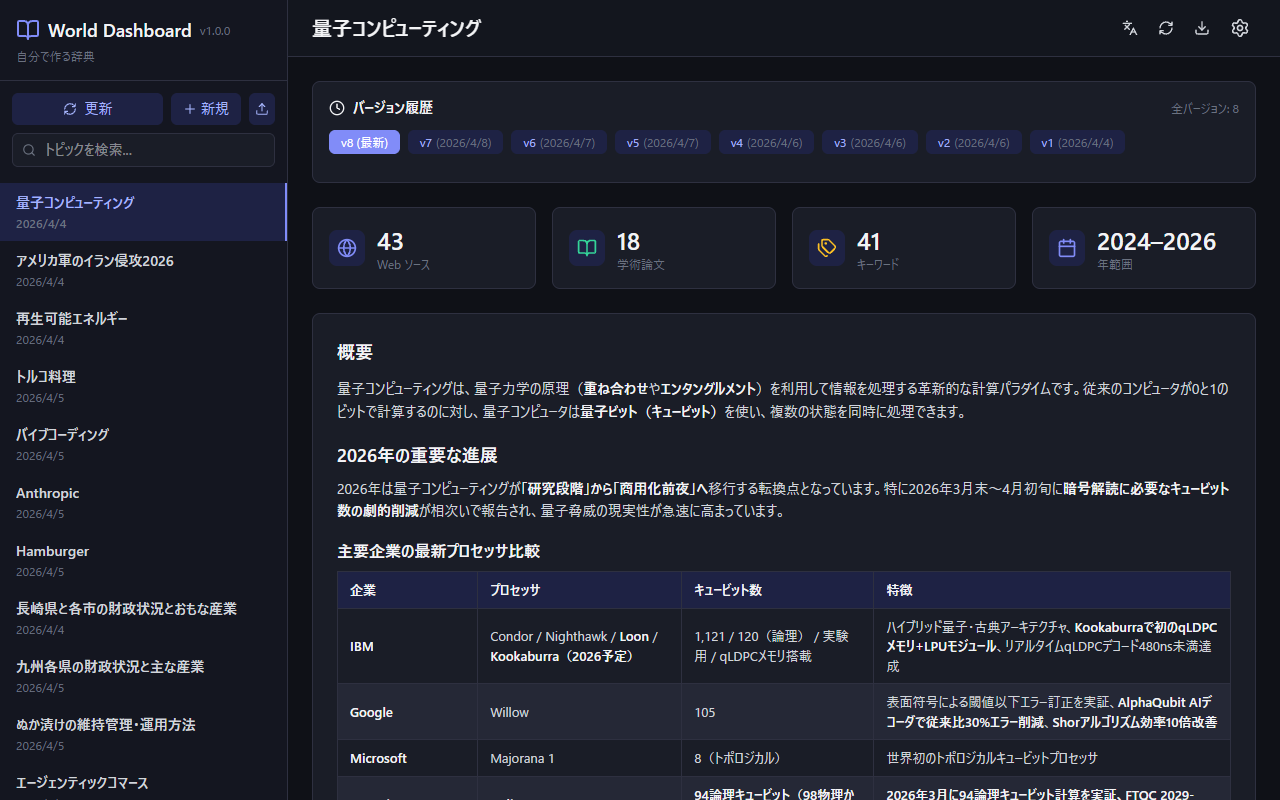
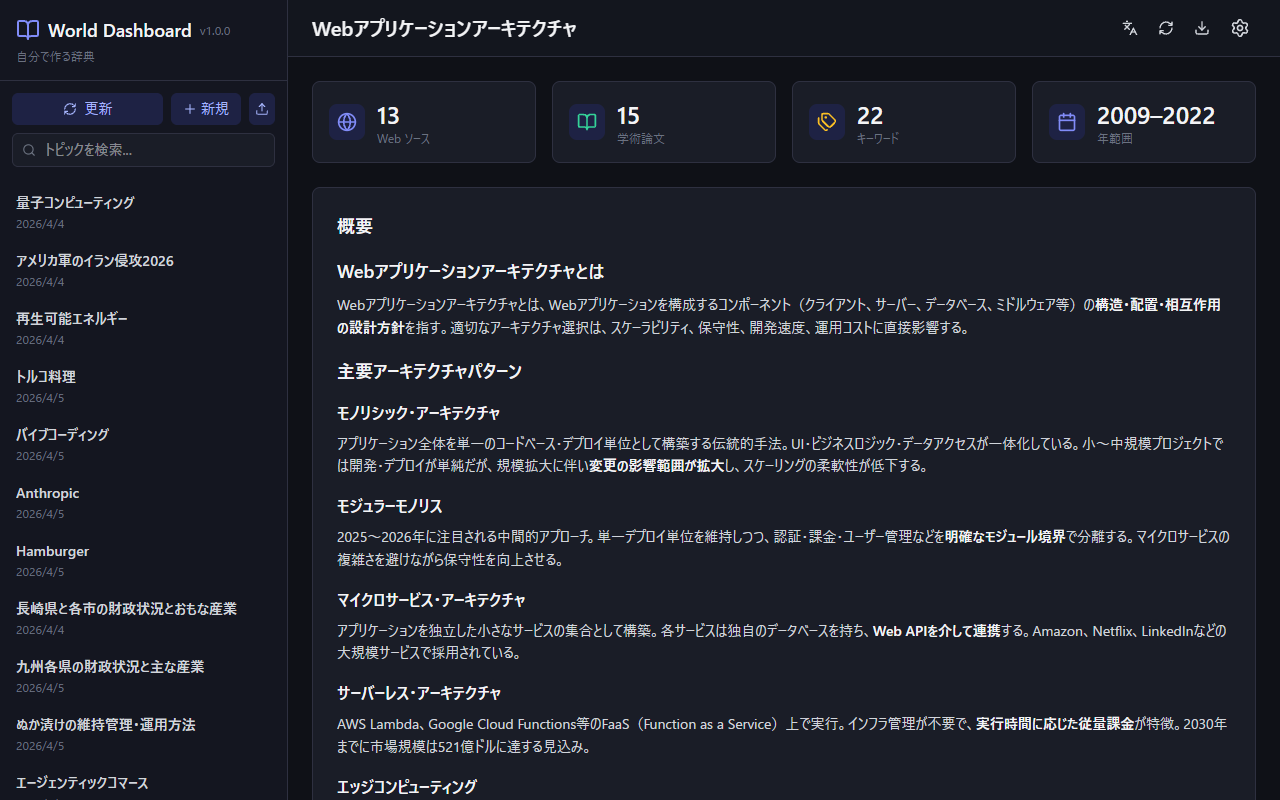
Update README, screenshots, and screenshot script for v1.0.1
- Screenshots now use "Webアプリケーションアーキテクチャ" as sample topic
- Added light-extensions.png showing SVG diagram rendering
- README: added SVG Diagrams feature, JSON repair/delete docs, React 19
- Screenshot script: auto-selects target topic, captures extension view

diff --git a/README.md b/README.md
@@ -18,6 +18,9 @@
 ### Keyword Map & Sources
 ![Keywords](./docs/screenshots/light-keywords.png)
 
+### Extensions (SVG Diagram, Charts)
+![Extensions](./docs/screenshots/light-extensions.png)
+
 ### English UI
 ![English](./docs/screenshots/light-english.png)
 
@@ -33,21 +36,22 @@
 - **Growing Knowledge Base** — Topics saved locally and revisitable anytime
 - **Drilldown Navigation** — Click any keyword in the treemap, key finding in overview, or "next paper" suggestion to instantly start a new research on that topic (parent-child tracking via `meta.parentSlug`)
 - **Import/Export** — Export button (↓) in header downloads current topic as JSON; import button (↑) in sidebar or drag & drop JSON files onto the topic list
-- **Flexible Schema** — Only `meta.topic` and `meta.slug` are required; all other fields optional. Extensions system for theme-specific data (map, timeline, table, chart, profile)
-- **Rich Display** — Markdown rendering (tables, bold, headings, lists) in overview and paper summaries. Extension renderers for table, chart (bar/line/pie via Recharts), and timeline
+- **Flexible Schema** — Only `meta.topic` and `meta.slug` are required; all other fields optional. Extensions system for theme-specific data (map, timeline, table, chart, profile, diagram)
+- **Rich Display** — Markdown rendering (tables, bold, headings, lists) in overview and paper summaries. Extension renderers for table, chart (bar/line/pie via Recharts), timeline, and SVG diagrams
+- **SVG Diagrams** — System architecture and concept diagrams rendered as sanitized SVG with theme-aware backgrounds
 - **Version-managed Updates** — Update existing topics with new information while preserving version history. Previous versions are kept intact and browsable. Corrections are tracked when facts change
 - **Culture-aware Translation** — Translate topics to any of 6 supported languages with automatic cultural difference assessment. Goes beyond word-for-word translation with supplementary web search when cultural context differs
 - **Extended Charts & Maps** — 7 chart types (bar, line, pie, area, radar, scatter, stacked bar) with multi-series support. Interactive maps via Leaflet/OpenStreetMap with markers and popups
 - **Structured Knowledge Pages** — Each topic is planned with a theme-specific structure covering understanding, context, and next steps, guided by the encyclopedia's design principles
 - **Parallel Job Execution** — Queue up to 3 research/translation jobs simultaneously with real-time progress tracking for each
 - **IME Support** — Full CJK input method support in topic input fields, preventing accidental submission during kanji/hanzi conversion
-- **JSON Validation & Repair** — Automatic validation and repair of generated JSON data files to prevent parse errors
+- **JSON Validation & Repair** — Automatic validation and repair of generated JSON data files to prevent parse errors. Broken entries can be repaired or deleted from the UI
 
 ## Tech Stack
 
 | Layer | Technology |
 |-------|-----------|
-| Frontend | React 18 + TypeScript + Vite 6 |
+| Frontend | React 19 + TypeScript + Vite 6 |
 | Styling | Tailwind CSS 4 |
 | Markdown | react-markdown + remark-gfm |
 | Charts | Recharts |
